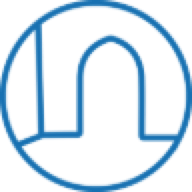
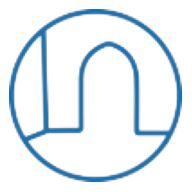
Inset the Ejdersted home-screen circle so it clears the Apple tile.

diff --git a/backend/main.py b/backend/main.py
@@ -3871,6 +3871,7 @@ _ICON_FILES = (
     ("favicon-96x96.png", "image/png"),
     ("haven-icon-v4.png", "image/png"),
     ("ejdersted-icon-v4.png", "image/png"),
+    ("ejdersted-icon-v5.png", "image/png"),
     ("ejdersted-manifest-192.png", "image/png"),
     ("ejdersted-manifest-512.png", "image/png"),
     ("ejdersted-favicon-32.png", "image/png"),
